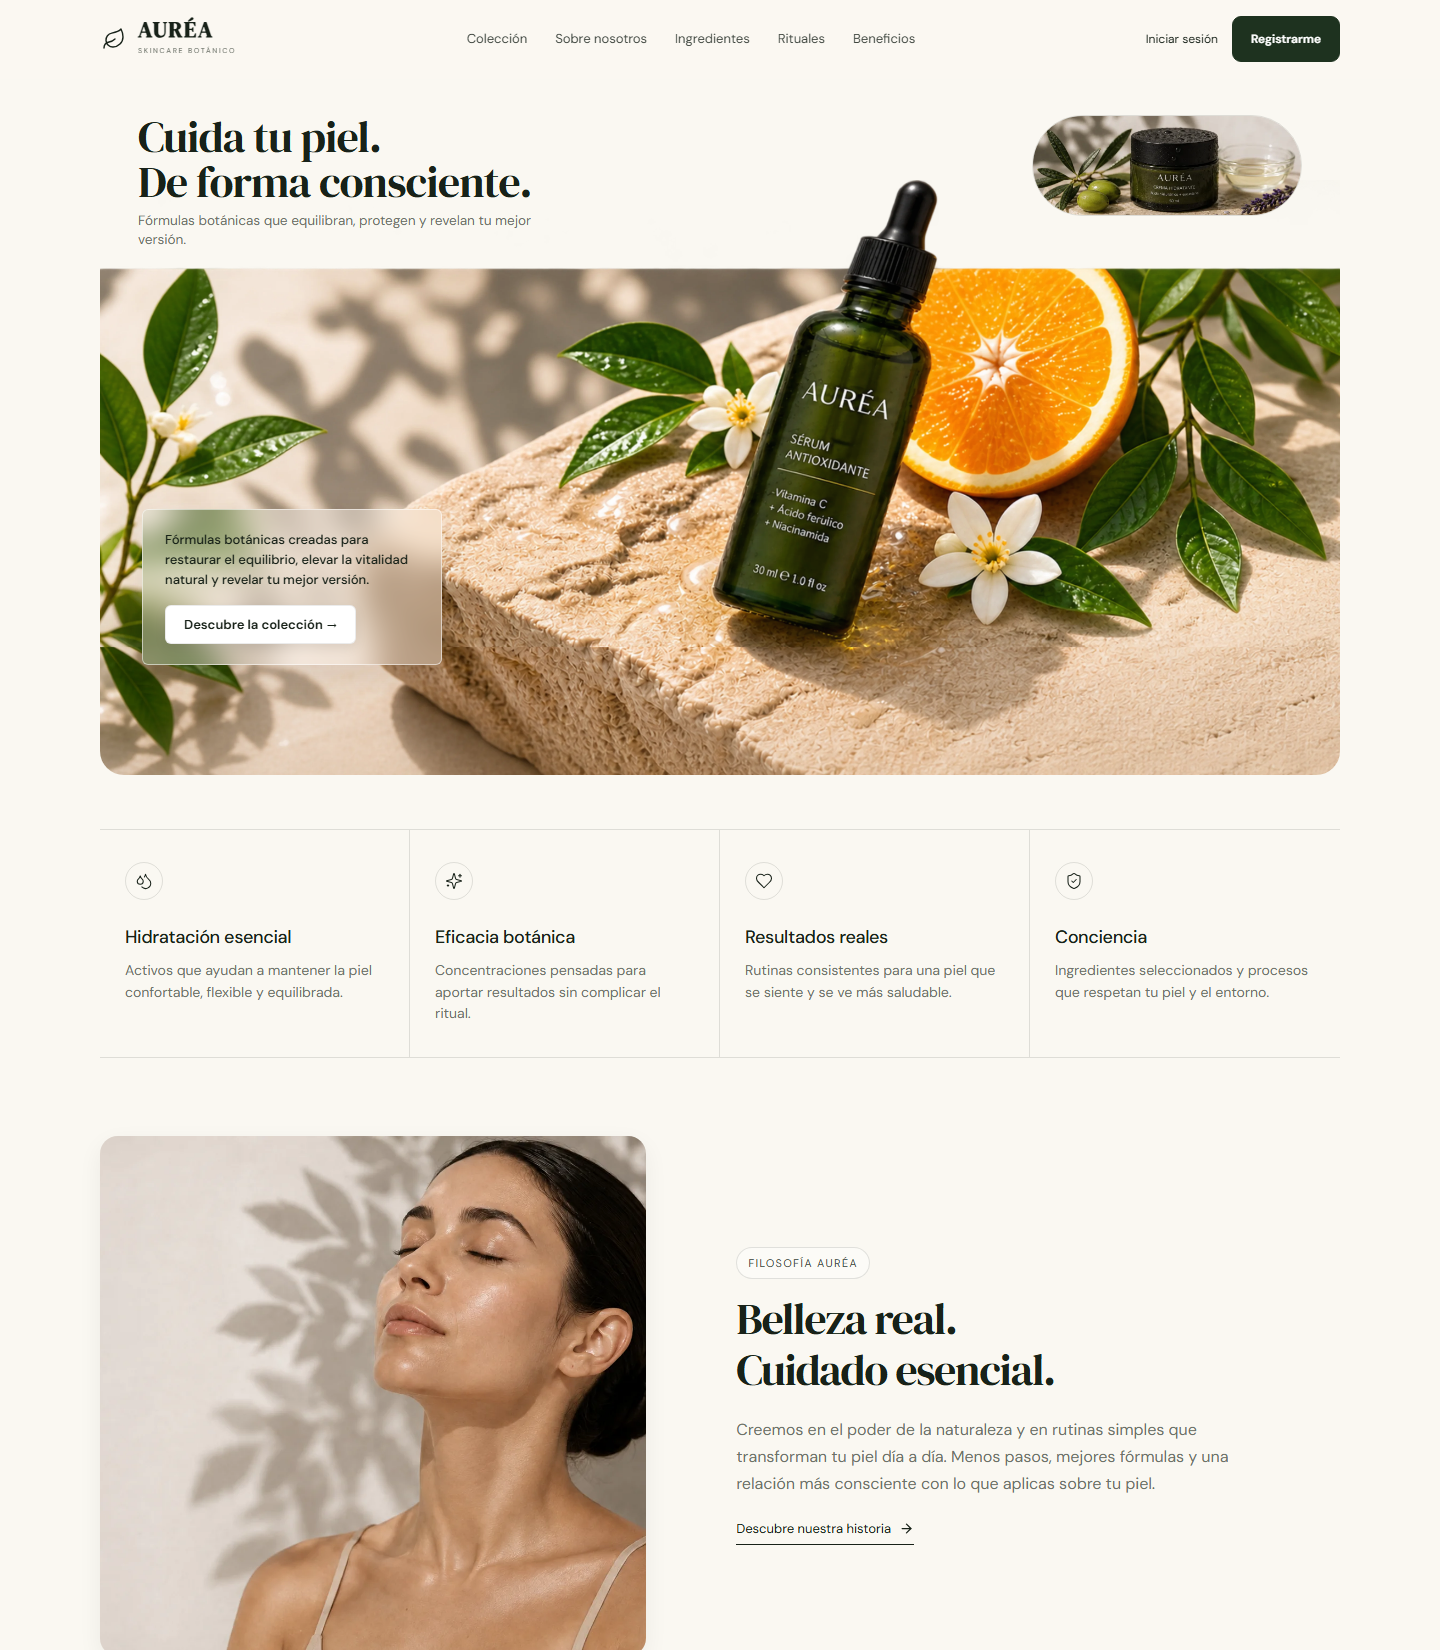
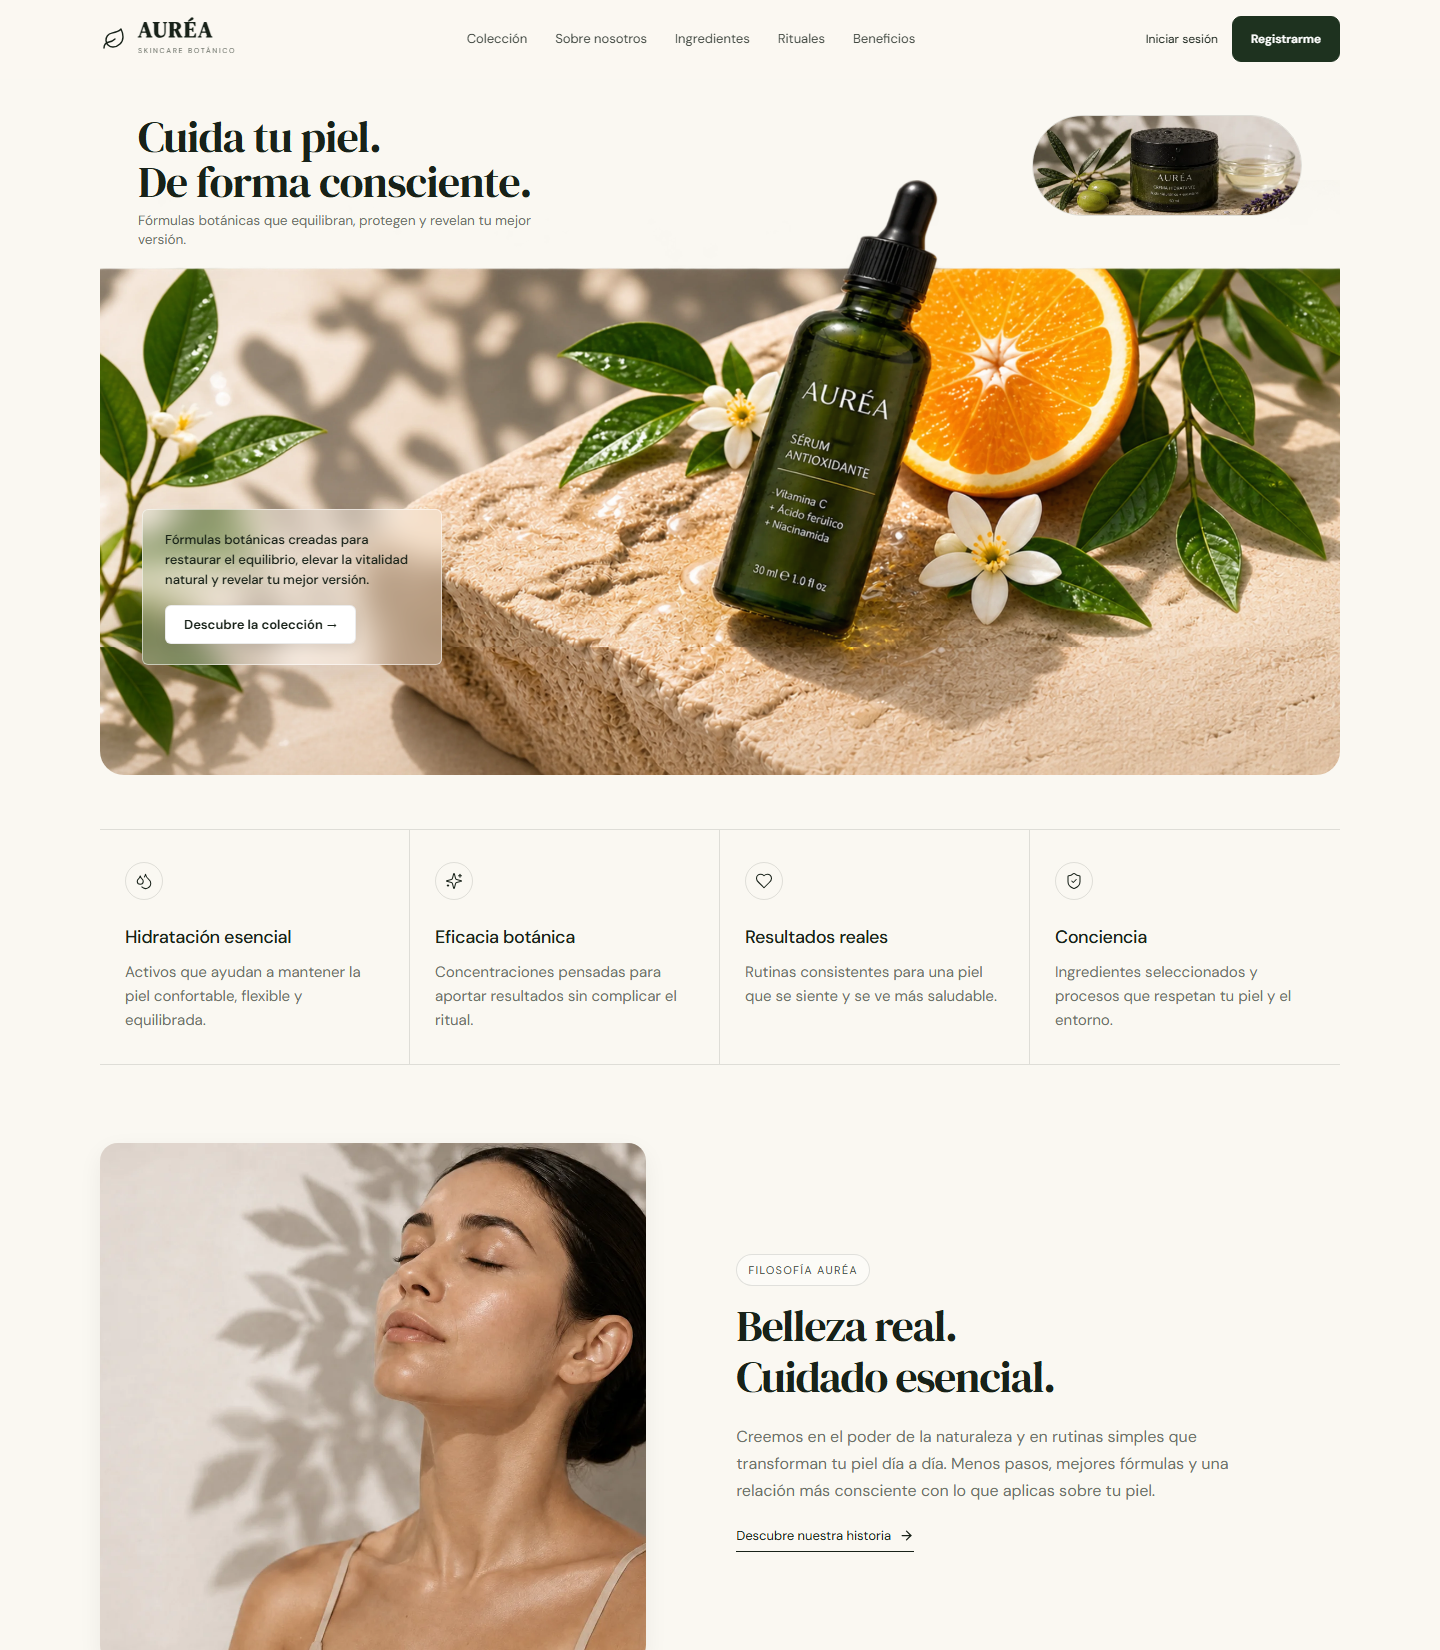
2026-09-02_18:40_A22@@@_calibracion-tipografica-parrafos-y-tarjetas-aurea

diff --git a/src/pages/11-Proyectos/2-Sistemas-digitales/3-Webs-y-landings/7-skin-care/aurea-skincare-web/aurea-landing.css b/src/pages/11-Proyectos/2-Sistemas-digitales/3-Webs-y-landings/7-skin-care/aurea-skincare-web/aurea-landing.css
@@ -81,14 +81,14 @@
 .aurea-landing .benefit:hover{background:rgba(255,255,255,.5)}
 .aurea-landing .icon-wrap{width:38px;height:38px;border:1px solid var(--line);border-radius:50%;display:grid;place-items:center;margin-bottom:24px}
 .aurea-landing .benefit h3{font-family:"DM Sans";font-size:18px;font-weight:500;letter-spacing:-.02em;margin-bottom:9px}
-.aurea-landing .benefit p{color:var(--muted);line-height:1.55;font-size:14px}
+.aurea-landing .benefit p{color:var(--muted);line-height:1.6;font-size:15px}
 
 .aurea-landing #rituales.section::before{content:'';position:absolute;inset:0;background:url('/aurea-images/signature_bg.png') center bottom/cover no-repeat;opacity:0.25;pointer-events:none;z-index:0}
 .aurea-landing #rituales.section>*{position:relative;z-index:1}
 .aurea-landing #ingredientes.section{padding-top:clamp(40px,4vw,60px)}
 .aurea-landing .product-intro{display:flex;justify-content:space-between;align-items:end;gap:30px;margin-bottom:34px}
 .aurea-landing .product-intro h2{font-size:clamp(30px,3.2vw,44px);line-height:1.15}
-.aurea-landing .product-intro p{max-width:390px;color:var(--muted);line-height:1.6;font-size:14px}
+.aurea-landing .product-intro p{max-width:390px;color:var(--muted);line-height:1.6;font-size:15px}
 
 .aurea-landing .product-feature{display:grid;grid-template-columns:1.08fr .92fr;gap:50px;align-items:center}
 .aurea-landing .product-gallery{display:grid;grid-template-columns:1fr 1fr;gap:10px}
@@ -121,7 +121,7 @@
 .aurea-landing .editorial-feature:hover{background:rgba(255,255,255,.3)}
 .aurea-landing .editorial-feature:last-child{border-right:0}
 .aurea-landing .editorial-feature h3{font-family:"DM Sans";font-weight:500;font-size:15px;margin:12px 0 7px}
-.aurea-landing .editorial-feature p{font-size:13.5px;line-height:1.55;color:var(--muted)}
+.aurea-landing .editorial-feature p{font-size:14.5px;line-height:1.6;color:var(--muted)}
 
 .aurea-landing .commitment{background:#e9e6dc}
 .aurea-landing .commitment-head{text-align:center;max-width:780px;margin:0 auto 46px}
@@ -135,7 +135,7 @@
 .aurea-landing .commitment-copy{padding:28px;display:flex;flex-direction:column;justify-content:center}
 .aurea-landing .commitment-copy span{font-size:11px;letter-spacing:.12em;color:#62705f;margin-bottom:10px}
 .aurea-landing .commitment-copy h3{font-size:26px;line-height:1.1;margin-bottom:12px}
-.aurea-landing .commitment-copy p{color:var(--muted);line-height:1.6;font-size:14.5px}
+.aurea-landing .commitment-copy p{color:var(--muted);line-height:1.65;font-size:15px}
 
 .aurea-landing .editorial-mosaic{display:grid;grid-template-columns:repeat(4,1fr);gap:24px;align-items:start}
 .aurea-landing .mosaic-column{display:flex;flex-direction:column;gap:12px}
@@ -145,7 +145,7 @@
 .aurea-landing .mosaic-text{display:flex;flex-direction:column;justify-content:flex-start;padding:6px 2px}
 .aurea-landing .mosaic-glyph{color:#4a6345;margin-bottom:12px;display:inline-flex}
 .aurea-landing .mosaic-text h3{font-family:"DM Serif Display",serif;font-size:22px;font-weight:400;line-height:1.15;color:var(--ink);margin-bottom:10px;letter-spacing:-.01em}
-.aurea-landing .mosaic-text p{color:var(--muted);font-size:13.5px;line-height:1.55}
+.aurea-landing .mosaic-text p{color:var(--muted);font-size:14.5px;line-height:1.6}
 
 @media(max-width:980px){.aurea-landing .editorial-mosaic{grid-template-columns:repeat(2,1fr);gap:24px}}
 @media(max-width:640px){.aurea-landing .editorial-mosaic{grid-template-columns:1fr;gap:28px}}
@@ -156,7 +156,7 @@
 .aurea-landing .why-item{max-width:280px;transition:transform .3s ease}
 .aurea-landing .why-item:hover{transform:translateY(-3px)}
 .aurea-landing .why-item h3{font-size:24px;margin:12px 0 9px}
-.aurea-landing .why-item p{color:var(--muted);line-height:1.6;font-size:13px}
+.aurea-landing .why-item p{color:var(--muted);line-height:1.6;font-size:14.5px}
 .aurea-landing .why-center{text-align:center}
 .aurea-landing .why-center h2{font-size:clamp(30px,3.2vw,44px);line-height:1.15}
 .aurea-landing .why-center img{width:min(500px,100%);margin:30px auto 10px;max-height:390px;object-fit:cover;object-position:center;border-radius:18px;transition:transform .6s cubic-bezier(.16,1,.3,1)}
@@ -172,7 +172,7 @@
 .aurea-landing .product-card .photo img{width:100%;aspect-ratio:1.05;object-fit:cover}
 .aurea-landing .product-card .meta{padding:15px 3px 0;display:flex;align-items:end;justify-content:space-between;gap:20px}
 .aurea-landing .product-card h3{font-family:"DM Sans",sans-serif;font-weight:600;font-size:17px;margin-bottom:5px;letter-spacing:-.01em}
-.aurea-landing .product-card p{color:var(--muted);font-size:13.5px;line-height:1.5;max-width:260px}
+.aurea-landing .product-card p{color:var(--muted);font-size:14.5px;line-height:1.55;max-width:260px}
 .aurea-landing .circle-arrow{width:38px;height:38px;border:1px solid var(--line);border-radius:50%;display:grid;place-items:center;flex:0 0 auto;transition:.3s ease;cursor:pointer;background:transparent}
 .aurea-landing .product-card:hover .circle-arrow{background:var(--accent);color:white;border-color:var(--accent);transform:rotate(-8deg)}
 
@@ -184,8 +184,8 @@
 .aurea-landing .news-benefits{display:grid;grid-template-columns:repeat(4,1fr);max-width:850px;margin:50px auto 0;border-top:1px solid var(--line);border-bottom:1px solid var(--line)}
 .aurea-landing .news-benefit{padding:22px 14px;border-right:1px solid var(--line);font-size:13px}
 .aurea-landing .news-benefit:last-child{border-right:0}
-.aurea-landing .news-benefit strong{display:block;margin-top:9px;font-size:14.5px;font-weight:600}
-.aurea-landing .news-benefit span{color:var(--muted);font-size:13px;line-height:1.4}
+.aurea-landing .news-benefit strong{display:block;margin-top:9px;font-size:15.5px;font-weight:600}
+.aurea-landing .news-benefit span{color:var(--muted);font-size:14px;line-height:1.45}
 
 .aurea-landing footer{border-top:1px solid var(--line)}
 .aurea-landing .footer-top{padding:55px 0;display:grid;grid-template-columns:1.4fr repeat(3,1fr);gap:40px}
